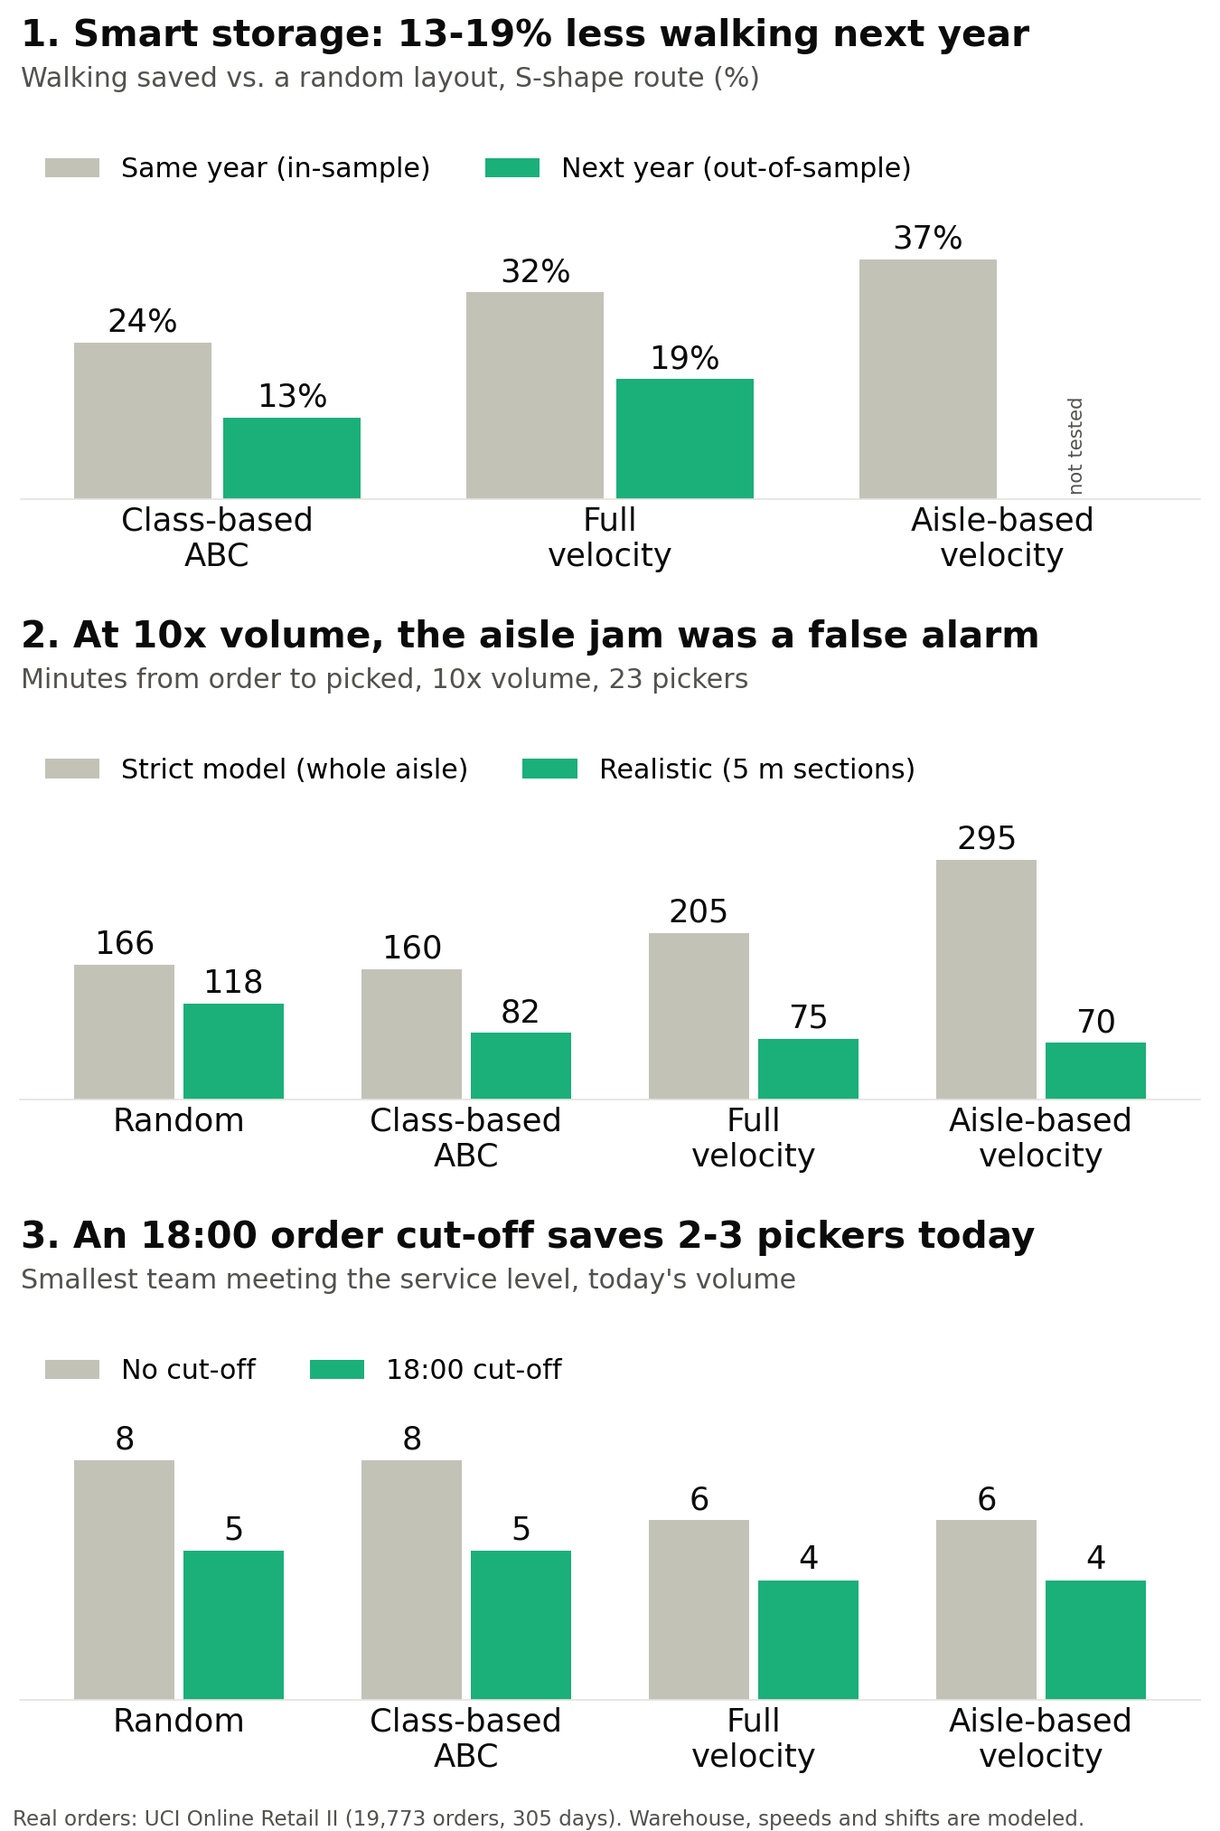
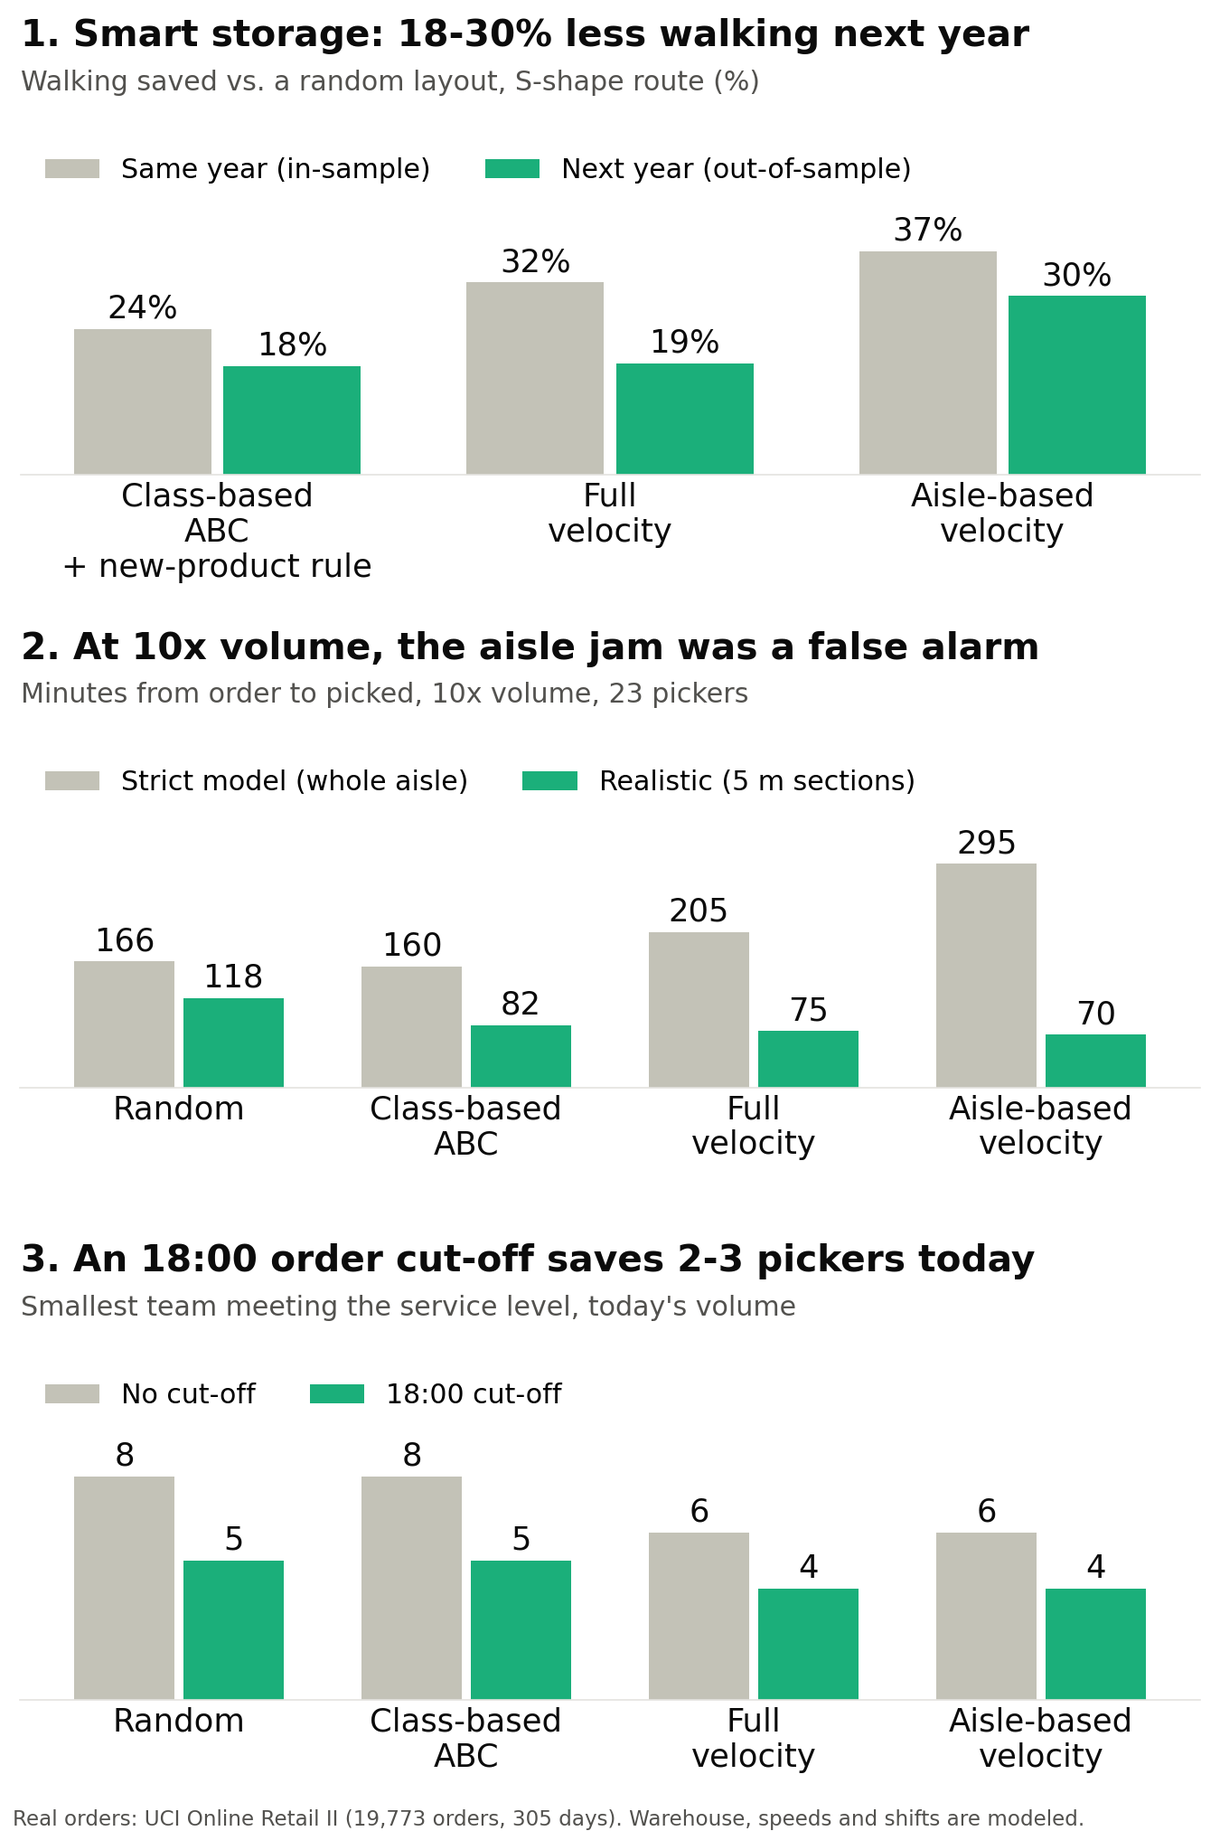
docs: align summary figure with TL;DR, add Aisle-based out-of-sample
- Panel 1: next-year bar for Class-based ABC is now the recommended P7
  (ABC + new-product rule, 18%), matching the TL;DR; Aisle-based velocity
  out-of-sample bar filled; title range from the data (18-30%).
- Aisle-based velocity out-of-sample on Module 4's two splits (Module 4's
  code re-run, all 16 stored rows reproduced): year-over-year -29.7%
  vs. -18.6% for Full velocity. Recommendation unchanged.
- TL;DR bullet 4 names Class-based ABC 82 min and Full velocity 75 min;
  pitch range 18-25%; "under 60% busy".

diff --git a/src/11_business_case.py b/src/11_business_case.py
@@ -96,6 +96,58 @@ def smallest_teams(res: pd.DataFrame) -> pd.DataFrame:
 
 
 # ----------------------------------------------------------------------------
+# Out-of-sample check for Aisle-based velocity (Module 4's splits and code)
+# ----------------------------------------------------------------------------
+def aisle_out_of_sample() -> pd.DataFrame:
+    """Module 4's two splits with Aisle-based velocity added (in-sample and out-of-sample, both
+    visit scopes). Module 4's own scenarios are re-run with its code and must reproduce
+    out_of_sample_results.csv exactly; only the Aisle-based rows are new."""
+    m4 = load_module("04_out_of_sample_check.py", "out_of_sample_check")
+    m1 = load_module("01_order_profile_abc.py", "order_profile_abc")
+    h6, f6, _ = m4.within_year_periods()
+    codes6 = sorted(pd.read_csv(PROC / "sku_velocity.csv", dtype={"StockCode": str})["StockCode"])
+    hy, fy, _ = m4.year_over_year_periods(m1)
+    codesy = sorted(fy["StockCode"].unique())
+    runs = []
+    for split, hist, fut, codes in ((m4.SPLIT_6_6, h6, f6, codes6), (m4.SPLIT_YOY, hy, fy, codesy)):
+        base, _ = m4.run_split(sr, m1.abc_class, split, hist, fut, codes)
+        layout, _ = m4.size_layout(sr, len(codes))
+        near_cut = int(round(sr.NEAR_SLOT_SHARE * len(layout)))
+        idx = pd.Series(np.arange(len(codes)), index=codes)
+        vo, vs = m4.order_visits(fut, idx)
+        hist_pick, _ = m4.sku_stats(hist, codes, m1.abc_class)
+        eval_pick, _ = m4.sku_stats(fut, codes, m1.abc_class)
+        seen = hist_pick[vs] > 0
+        rows = []
+        for basis, pick in ((m4.BASIS_IN, eval_pick), (m4.BASIS_OUT, hist_pick)):
+            ranks = m5.slot_aisle_based_velocity(pick, layout)
+            scopes = ((m4.SCOPE_ALL, vo, vs),) + (((m4.SCOPE_SEEN, vo[seen], vs[seen]),) if basis == m4.BASIS_OUT else ())
+            for scope, o, s in scopes:
+                avg, km, near = sr.evaluate(ranks, layout, o, s, near_cut)
+                rows.append({"split": split, "scenario": m5.SCENARIO_AISLE, "ranking_basis": basis, "visit_scope": scope,
+                             "seed": None, "avg_distance_per_order_m": avg, "total_distance_km": km,
+                             "share_picks_nearest_20pct_slots": near, "n_orders_evaluated": len(np.unique(o))})
+        runs += [base, pd.DataFrame(rows)]
+    runs = pd.concat(runs, ignore_index=True)
+    order = []
+    for split in (m4.SPLIT_6_6, m4.SPLIT_YOY):
+        order += [(split, sr.SCENARIO_RANDOM, m4.BASIS_NONE, m4.SCOPE_ALL), (split, sr.SCENARIO_RANDOM, m4.BASIS_NONE, m4.SCOPE_SEEN)]
+        for s in (sr.SCENARIO_CLASS, sr.SCENARIO_VELOCITY, m5.SCENARIO_AISLE):
+            order += [(split, s, m4.BASIS_IN, m4.SCOPE_ALL), (split, s, m4.BASIS_OUT, m4.SCOPE_ALL),
+                      (split, s, m4.BASIS_OUT, m4.SCOPE_SEEN)]
+    res = m4.summarize(runs, sr.SCENARIO_RANDOM, order)
+    ref = pd.read_csv(PROC / "out_of_sample_results.csv")
+    keys = ["split", "visit_scope", "scenario", "ranking_basis"]
+    m = res.merge(ref, on=keys, suffixes=("", "_m4"))
+    assert len(m) == len(ref), f"expected {len(ref)} Module 4 rows, matched {len(m)}"
+    diff = max(float((m[c] - m[f"{c}_m4"]).abs().max()) for c in ("avg_distance_per_order_m", "change_vs_random"))
+    if diff > 1e-9:
+        raise AssertionError(f"re-run does not reproduce Module 4 (max |diff| {diff})")
+    print(f"Check OK: re-run reproduces all {len(ref)} Module 4 rows (max |diff| {diff:.1e}).")
+    return res[res["scenario"] == m5.SCENARIO_AISLE].reset_index(drop=True)
+
+
+# ----------------------------------------------------------------------------
 # Summary figure (numbers read from earlier modules' CSVs, nothing recomputed)
 # ----------------------------------------------------------------------------
 INK, INK_MUTED, GRID = "#0b0b0b", "#52514e", "#e4e3df"
@@ -110,7 +162,15 @@ def summary_data() -> dict:
     oos = pd.read_csv(PROC / "out_of_sample_results.csv")
     oos = oos[(oos["split"] == "year-over-year") & (oos["visit_scope"] == "all_visits")
               & (oos["ranking_basis"] == "out_of_sample")].set_index("scenario")["change_vs_random"]
-    walk = [(s, -100 * rs[s], -100 * oos[s] if s in oos else np.nan) for s in LAYOUTS[1:]]
+    # Next year: Class-based ABC is shown as the recommended P7 (ABC + new SKUs at the front of the B
+    # zone, Module 6, static, same evaluation year and random baseline as Module 4's year-over-year
+    # split); in-sample there are no new SKUs, so the rule changes nothing there.
+    pol = pd.read_csv(PROC / "reslotting_policies.csv").set_index("policy")["avg_distance_per_order_m"]
+    oos[sr.SCENARIO_CLASS] = pol["P7 P1 + new-SKU-to-B"] / pol["Random (baseline)"] - 1
+    aisle = pd.read_csv(PROC / "aisle_out_of_sample.csv")
+    oos[m5.SCENARIO_AISLE] = aisle.loc[(aisle["split"] == "year-over-year") & (aisle["visit_scope"] == "all_visits")
+                                       & (aisle["ranking_basis"] == "out_of_sample"), "change_vs_random"].item()
+    walk = [(s, -100 * rs[s], -100 * oos[s]) for s in LAYOUTS[1:]]
     a = pd.read_csv(PROC / "congestion_simulation.csv")
     a = a[(a["case"] == "base") & (a["volume"] == 10) & (a["pickers"] == 23) & (a["route"] == "S-shape")]
     b = pd.read_csv(PROC / "congestion_refined.csv")
@@ -149,14 +209,16 @@ def _bars(ax, labels, before, after, names, fmt, fs, missing="not tested"):
 
 def plot_summary(d: dict, path: Path, size_in, dpi, fs) -> None:
     fig, axes = plt.subplots(3, 1, figsize=size_in)
-    titles = ("1. Smart storage: 13-19% less walking next year",
+    w = d["walk"]
+    nxt = np.array([v for *_, v in w])
+    titles = (f"1. Smart storage: {nxt.min():.0f}-{nxt.max():.0f}% less walking next year",
               "2. At 10x volume, the aisle jam was a false alarm",
               "3. An 18:00 order cut-off saves 2-3 pickers today")
     subs = ("Walking saved vs. a random layout, S-shape route (%)",
             "Minutes from order to picked, 10x volume, 23 pickers",
             "Smallest team meeting the service level, today's volume")
-    w = d["walk"]
-    _bars(axes[0], [SHORT[s] for s, *_ in w], np.array([v for _, v, _ in w]), np.array([v for *_, v in w]),
+    labels = [SHORT[s] + ("\n+ new-product rule" if s == sr.SCENARIO_CLASS else "") for s, *_ in w]
+    _bars(axes[0], labels, np.array([v for _, v, _ in w]), nxt,
           ("Same year (in-sample)", "Next year (out-of-sample)"), lambda v: f"{v:.0f}%", fs)
     c = d["cycle"]
     _bars(axes[1], [SHORT[s] for s, *_ in c], np.array([v for _, v, _ in c]), np.array([v for *_, v in c]),
@@ -181,6 +243,7 @@ def main() -> None:
     ap = argparse.ArgumentParser()
     ap.add_argument("--estimate", action="store_true")
     ap.add_argument("--plot-only", action="store_true")
+    ap.add_argument("--out-of-sample", action="store_true", help="only the Aisle-based out-of-sample check")
     ap.add_argument("--workers", type=int, default=os.cpu_count())
     args = ap.parse_args()
     cfgs = configs()
@@ -191,7 +254,15 @@ def main() -> None:
         print(f"  {len(cfgs)} configurations: ~{len(cfgs) * r['runtime_s'] * 1.9 / args.workers / 60:.1f} min "
               f"on {args.workers} processes (x1.9 parallel slowdown seen in 8c)")
         return
-    if not args.plot_only:
+    if args.out_of_sample or not args.plot_only:
+        t0 = time.perf_counter()
+        oos = aisle_out_of_sample()
+        oos.to_csv(PROC / "aisle_out_of_sample.csv", index=False)
+        print("\n--- AISLE-BASED VELOCITY, OUT-OF-SAMPLE (Module 4 splits, S-shape) ---")
+        print(oos.drop(columns=["avg_distance_per_order_min_m", "avg_distance_per_order_max_m"])
+              .to_string(index=False, float_format=lambda v: f"{v:,.4f}"))
+        print(f"({time.perf_counter() - t0:.0f} s)")
+    if not args.plot_only and not args.out_of_sample:
         t0 = time.perf_counter()
         print(f"Scope: {len(cfgs)} x1 configurations on {args.workers} processes", flush=True)
         with Pool(args.workers) as pool:

diff --git a/README.md b/README.md
@@ -1,6 +1,6 @@
 # Warehouse Slotting & Picking Optimization
 
-> **Where should a warehouse store each product, and how should pickers walk, so that orders are picked with less walking and fewer people?** Real orders from a UK online wholesaler (19,773 orders over 305 working days) are routed through a modeled 40-aisle warehouse. Result: walking drops by 13-25% per lever, and an 18:00 order cut-off lets a smaller team do the same work.
+> **Where should a warehouse store each product, and how should pickers walk, so that orders are picked with less walking and fewer people?** Real orders from a UK online wholesaler (19,773 orders over 305 working days) are routed through a modeled 40-aisle warehouse. Result: walking drops by 18-25% per lever, and an 18:00 order cut-off lets a smaller team do the same work.
 
 ![Python](https://img.shields.io/badge/Python-3.10+-blue) ![pandas](https://img.shields.io/badge/pandas-data%20analysis-150458) ![Status](https://img.shields.io/badge/status-in%20progress-yellow)
 
@@ -11,7 +11,7 @@
 - **Store fast sellers near dispatch:** Class-based ABC zoning (fast, medium and slow products in three zones by distance), with new products placed at the front of the middle zone, cuts walking by 18% on next year's orders (933 -> 764 m per order), with no ongoing moves.
 - **Route pickers better:** on the ABC layout, the shortest possible route instead of the common "walk every aisle end to end" route (S-shape) cuts walking by 25% (708 -> 531 m per order). A simple routing rule gets within 8% of the shortest route.
 - **Stop evening picking:** with an 18:00 order cut-off, the Class-based ABC layout needs 5 pickers instead of 8 at today's volume (38% lower picking cost per order).
-- **The 10x growth warning was a false alarm:** a strict model said fast sellers up front would jam the aisles at 10x volume. With realistic 5 m aisle sections they stay fastest (75 min vs. 118 min from order to picked).
+- **The 10x growth warning was a false alarm:** a strict model said fast sellers up front would jam the aisles at 10x volume. With realistic 5 m aisle sections they stay faster than random: Class-based ABC 82 min and Full velocity 75 min vs. 118 min for random, from order to picked.
 - **Re-slotting every month does not pay:** moving only the top 500 SKUs when their rank drifts saves just 115 h a year, and stops paying once a move takes more than about 4 minutes.
 
 ## Business case (Module 11)
@@ -46,7 +46,7 @@ How each number is calculated:
 ² In-sample: ranked and evaluated on the same last 12 months, Dec 2010 - Dec 2011 (**19,773 orders**, 305 working days). This is also the year used by the simulations. The two order bases differ because Module 6 needs 12 full months after the ranking year; so Random walking is 4,913 h a year in one and 5,125 h in the other, at the same 933 m per order.
 
 - **Levers are measured separately and cannot simply be added.**
-- **At today's volume pickers are 43–55% busy, so walking savings free capacity for growth rather than reduce headcount; team size is set by arrival peaks and evening orders. Idle time can be used for replenishment, cycle counting or re-slotting moves.**
+- **At today's volume pickers are under 60% busy, so walking savings free capacity for growth rather than reduce headcount; team size is set by arrival peaks and evening orders. Idle time can be used for replenishment, cycle counting or re-slotting moves.**
 
 ## Data vs. assumptions
 
@@ -69,7 +69,7 @@ How each number is calculated:
 |---|---|---|---|
 | 1 | What do the orders look like? | One third of SKUs make 80% of picks; the median order has 15 lines. | [Module 1](#module-1-order-profile) |
 | 2-3 | How much walking does velocity slotting save? | 24% (Class-based ABC) to 32% (Full velocity), in-sample. | [Modules 2-3](#modules-2-3-slotting-and-kpis) |
-| 4 | Does the saving hold on next year's orders? | About half of it: 13% to 19%; new SKUs explain most of the gap. | [Module 4](#module-4-out-of-sample-check) |
+| 4 | Does the saving hold on next year's orders? | About half of it: 13% to 19%; new SKUs explain most of the gap. Aisle-based velocity keeps more (30%). | [Module 4](#module-4-out-of-sample-check) |
 | 5 | Does the best layout depend on the routing rule? | Yes for the precise layouts; Class-based ABC is robust under all rules. | [Module 5](#module-5-routing-sensitivity) |
 | 6 | How often should products be moved? | Rarely: static zoning plus new SKUs in the B zone; re-slot the top 500 only if a move takes under ~4 min. | [Module 6](#module-6-re-slotting-policies) |
 | 7 | How far are simple routing rules from optimal? | The best simple rule is 4-8% above optimal; S-shape is 21-45% above. | [Module 7](#module-7-optimal-routing) |
@@ -170,6 +170,19 @@ The two splits - built from non-overlapping years of data - agree closely (class
 - SKUs with no pick history in the ranking period (514 of 3,791 SKUs / 16.2% of visits, 6+6; 651 of 3,789 SKUs / 18.7% of visits, year-over-year) are ranked last by construction. Excluding their visits recovers most of the in-sample saving: seen-only reductions (23.8-31.9%) sit close to the in-sample figures (24.4-35.0%).
 - So **10-13 percentage points of the out-of-sample gap is specifically the cost of slotting items with no pick history**; the remaining 1-4 points is ordinary pick-frequency drift among SKUs that were already known.
 - Practically, this argues for a new-SKU policy (provisional slotting from a category/supplier proxy, then a fast re-check after the first weeks of sales) rather than against velocity-based slotting itself.
+
+**Added in Module 11: Aisle-based velocity.** Module 5 added Aisle-based velocity after this check was built, so it was not tested out-of-sample at first. Module 11 runs it on the same two splits with Module 4's own code (which reproduces every number above exactly):
+
+*What to read here: the out-of-sample column; Aisle-based velocity keeps much more of its saving than Full velocity.*
+
+| Scenario | Split | In-sample reduction | Out-of-sample reduction | Reduction, seen-only visits | New-SKU effect |
+|---|---|---|---|---|---|
+| Aisle-based velocity | 6+6 months | -40.4% | **-28.9%** | -36.3% | 7.4 pp |
+| Aisle-based velocity | Year-over-year | -37.2% | **-29.7%** | -37.5% | 7.7 pp |
+
+- On next year's orders Aisle-based velocity saves 29.7% of walking, against 18.6% for Full velocity and 12.6% for Class-based ABC (S-shape routing).
+- The reason is where products without pick history go. Every layout puts them in its last slots. For Full velocity these are the back ends of 17 aisles; for Aisle-based velocity, 7 whole aisles at the far end. With S-shape routing every extra aisle costs a full walk-through, so pickers enter 2.74 aisles per order only for new products under Full velocity, and 1.56 under Aisle-based velocity.
+- The recommendation (Class-based ABC with new products in the B zone) is not changed here; see Module 11.
 
 ![In-sample vs. out-of-sample](reports/figures/05_in_vs_out_of_sample.png)
 
@@ -482,9 +495,11 @@ Module 8c tested the cut-off on Full velocity only, while the recommended layout
 - **The cut-off saves 2-3 pickers on every layout.** It removes evening picking, which is what forces the larger team without a cut-off.
 - **Class-based ABC needs one picker more than the velocity layouts.** With 4 pickers and a cut-off, ABC meets the same-day and next-morning targets, but only 92.8% of days stay within the overtime limit (95% needed). Full velocity reaches 96.1% and Aisle-based velocity 97.0%. Longer walks mean more pre-cut-off work runs past 18:00 on peak days.
 - **For staffing, the cut-off matters more than the layout:** Class-based ABC with a cut-off (5 pickers) needs fewer people than Full velocity without one (6).
+
+**Out-of-sample check for Aisle-based velocity.** Module 4 tested only Class-based ABC and Full velocity on next year's orders. Module 11 adds Aisle-based velocity with Module 4's splits and code; the result is in the [Module 4 section](#module-4-out-of-sample-check): 29.7% less walking on next year's orders (year-over-year split, S-shape), against 18.6% for Full velocity. Full results: `data/processed/aisle_out_of_sample.csv`. This result is reported, but the recommendation has not been changed yet.
 - **Cost:** for Class-based ABC, 1.25 -> 0.78 wage-hours per order (-38%), or 9,307 wage-hours a year.
 
-The summary figure at the top (`reports/figures/00_summary.png`, plus a 1200 x 1500 px version, `linkedin_summary.png`) is drawn by the same script from earlier modules' CSVs.
+The summary figure at the top (`reports/figures/00_summary.png`, plus a 1200 x 1500 px version, `linkedin_summary.png`) is drawn by the same script from earlier modules' CSVs. In panel 1, the next-year bar for Class-based ABC is the recommended version with the new-product rule (P7, Module 6: 764 m vs. 933 m for Random, -18.1%); in the same year there are no new products, so the rule changes nothing there.
 
 </details>
 

diff --git a/docs/methodology.md b/docs/methodology.md
@@ -228,7 +228,8 @@
 - **Check:** without a cut-off, the Class-based ABC and Full velocity rows reproduce Module 8b's 10 stored x1 team-size rows on aisle wait, cycle time, overtime work, cost per order, days within the overtime limit and the service-level flag (max difference 1.4e-14, asserted).
 - **Result (smallest team meeting the service level):** no cut-off: Random 8, Class-based ABC 8, Full velocity 6, Aisle-based velocity 6; 18:00 cut-off: 5, 5, 4, 4. 7 pickers is not in the grid, so 8 means 7 or 8. With 4 pickers and the cut-off, Class-based ABC fails only on the overtime criterion (92.8% of days within the limit; Full velocity 96.1%, Aisle-based velocity 97.0%, Random 85.2%).
 - **Business case:** every figure is taken from an earlier module's table or CSV; none is re-estimated. Walking hours keep each module's own order base (Module 6: 18,957 orders, Dec 2010 - Nov 2011; Modules 2, 7, 8a-8c, 11: 19,773 orders, 305 working days). Cut-off savings = difference in cost per day x 305 days (wage 1 unit per hour). Levers are measured separately and are not added up.
-- **Summary figure** (`reports/figures/00_summary.png`, 1350 x 2025 px; `linkedin_summary.png`, 1200 x 1500 px): (1) walking reduction vs. Random under S-shape, in-sample (Module 5) and year-over-year out-of-sample (Module 4; Aisle-based velocity was not tested out-of-sample); (2) x10, 23 pickers, S-shape cycle time, Module 8a strict vs. Module 8b narrow segments, wait; (3) the Module 11 team sizes above.
+- **Out-of-sample check for Aisle-based velocity:** Module 4 was built before Module 5 introduced Aisle-based velocity and was never extended to it. Module 11 imports Module 4 and re-runs both splits with its code (`run_split`, `summarize`; all 16 stored rows reproduced, max difference 8.3e-17, asserted), adding Aisle-based velocity (Module 5's `slot_aisle_based_velocity`, ranked on the evaluation period for in-sample and on the history period for out-of-sample, unseen SKUs last) on the same layout, visits and random baseline. Result: year-over-year -29.7% (Full velocity -18.6%), 6+6 -28.9% (-18.3%); seen-only -37.5% and -36.3%. Diagnostic: with year-over-year history ranks, unseen SKUs occupy 17 aisles under Full velocity and 7 under Aisle-based velocity; aisles entered per order only for unseen SKUs: 2.74 vs. 1.56. Output: `data/processed/aisle_out_of_sample.csv` (Module 4's CSV is unchanged). ~2 min.
+- **Summary figure** (`reports/figures/00_summary.png`, 1350 x 2025 px; `linkedin_summary.png`, 1200 x 1500 px): (1) walking reduction vs. Random under S-shape, in-sample (Module 5) and next year (year-over-year: Full velocity from Module 4, Aisle-based velocity from the check above, Class-based ABC as the recommended P7 from Module 6, which uses the same evaluation year and random baseline); (2) x10, 23 pickers, S-shape cycle time, Module 8a strict vs. Module 8b narrow segments, wait; (3) the Module 11 team sizes above.
 
 ## 16. Known limitations
 - The layout is synthetic; absolute distances depend on its dimensions, relative differences between scenarios on the layout shape and order size.
